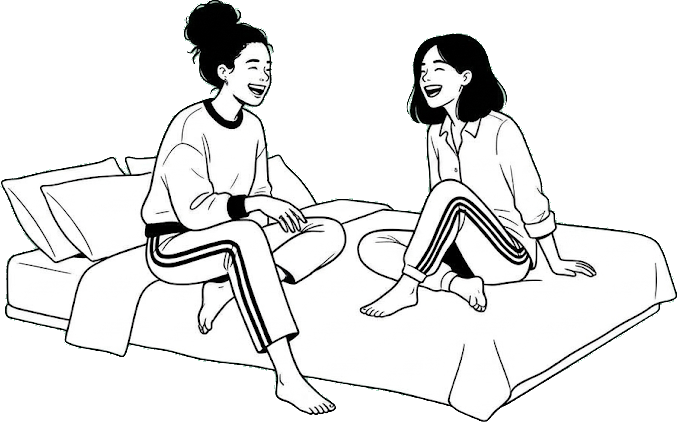
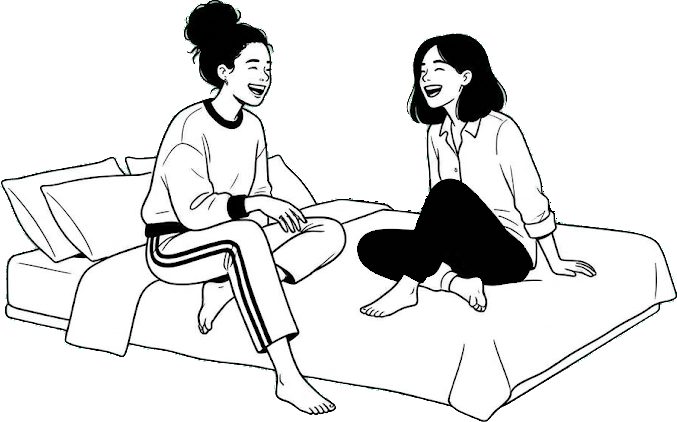
Textos nuevos de ansiedad, depresión, insomnio y alimentación; menú con botón verde
- Frases de la gente, enfoque multidimensional (TCC, ACT y contextuales) en la entrada
- Etiquetas «¿Te pasa algo de esto?» bajo los botones; fuera «Hay varias psicologías» y anterior/siguiente
- Menú: botón verde clarito al pasar el ratón y en la sección actual
- Problemas sexuales: pantalón negro entero

Changed region(s): [[0.5273, 0.4313, 0.8065, 0.6777]]

diff --git a/maqueta/motivos-data.js b/maqueta/motivos-data.js
@@ -10,28 +10,45 @@ function v(t){return '<span class="verify">[VERIFICAR '+t+']</span>';}
 
 window.MOTIVOS=[
 {
-  slug:'ansiedad', name:'Ansiedad y estrés', sym:'Le doy vueltas a todo',
-  k:'ansiedad estres nervios angustia le doy vueltas a todo pienso demasiado ataque de ansiedad me falta el aire taquicardia panico agobio miedo fobia obsesiones psicosomatico trabajo laboral autocontrol burnout',
-  feel:['Le doy vueltas a todo','Pienso demasiado las cosas','Me falta el aire y se me acelera el corazón','Me da miedo que me vuelva a dar un ataque de ansiedad'],
+  slug:'ansiedad', name:'Ansiedad y estrés', sym:'Tengo ansiedad y no sé por qué',
+  k:'ansiedad estres nervios angustia no puedo parar de pensar estoy todo el dia pensando me obsesiono con las ideas tengo ansiedad y no se por que le doy vueltas a todo pienso demasiado ataque de ansiedad me falta el aire taquicardia panico agobio miedo fobia obsesiones psicosomatico trabajo laboral autocontrol burnout',
+  feel:['Tengo ansiedad y no sé por qué','No puedo parar de pensar','Estoy todo el día pensando','Me obsesiono con las ideas'],
+  feelNote:'Frases con las que mucha gente cuenta lo que le pasa.',
+  bases:[
+    ['bio','Lo que dice la biología','La ansiedad es un sistema de alarma que compartimos con otros animales. Ante una amenaza, el cuerpo se prepara para huir o defenderse: se acelera el corazón, cambia la respiración, se tensan los músculos. Es útil ante un peligro real; agota cuando se queda encendida sin pausa. '+V],
+    ['neuro','Lo que dice la neurología','Hay circuitos del cerebro que detectan amenazas muy deprisa, antes de que lo pensemos, y otros, más lentos, que pueden calmarlos. Por eso a veces la ansiedad llega «sin saber por qué»: el aviso va por delante de la explicación. '+V],
+    ['psico','Lo que dice la psicología','Darle vueltas a algo suele ser un intento de controlar lo que no sabemos: si lo pienso todo, nada me pillará por sorpresa. Alivia un momento y alimenta el círculo. Con evitar lo que asusta pasa igual: a corto plazo tranquiliza; a la larga, agranda el miedo. '+V],
+    ['socio','Lo que dice la sociología','La ansiedad no nace solo dentro de cada uno. La precariedad, la prisa, la presión por rendir o por estar siempre conectado pesan, y es uno de los motivos de consulta más frecuentes en atención primaria. '+V]
+  ],
+  together:'Cada una de estas miradas explica una parte, y ninguna lo explica todo. Lo que nos interesa es cómo se entretejen en tu caso: qué te pasa en el cuerpo, qué te dices, qué está ocurriendo en tu vida. La ansiedad casi siempre tiene dirección —el trabajo, la familia, la pareja, el dinero— y también sus razones, aunque al principio no se vean. A partir de ahí buscamos el enfoque que mejor encaja contigo, y lo pensamos juntos.',
   cta:'Podemos ayudarte a dejar de darle vueltas a todo y a que la ansiedad no decida por ti.',
   intro:'La ansiedad es una respuesta de alarma ante algo que anticipamos como amenaza. Es útil cuando se ajusta a lo que pasa; se convierte en un problema cuando aparece sin motivo claro, dura demasiado o empieza a decidir por ti.',
+  how:'Lo abordamos desde un enfoque multidimensional, sobre todo con terapia cognitivo-conductual, terapia de aceptación y compromiso (ACT) y otras terapias contextuales: entender qué mantiene la ansiedad, dejar de evitar lo que asusta y volver a hacer lo que te importa.',
   science:'Se suele distinguir el miedo, ante un peligro presente, de la ansiedad, ante uno anticipado. Cuando se mantiene y limita la vida diaria, los manuales clínicos describen varios cuadros: ansiedad generalizada, pánico, ansiedad social o fobias, entre otros. Es uno de los motivos de consulta más frecuentes. '+V,
   refs:'GuíaSalud (SNS): guía de práctica clínica sobre el manejo de los trastornos de ansiedad en atención primaria. '+v('edición vigente y enlace'),
   beyond:'Decir «tengo ansiedad» la convierte en una pieza averiada que llevamos dentro. Suele ser más útil verla como algo que hacemos —anticipar— y preguntarse hacia dónde: casi siempre tiene dirección postal (el trabajo, la familia, la pareja, el dinero). A veces la anticipación se vuelve sobre sí misma: vigilar cada latido, pensar en cómo estoy pensando. Y las ideas que parecen «irracionales» también tienen sus razones.',
   approaches:[
-    ['Cognitivo-conductual','Exposición gradual a lo que se evita y revisión de las anticipaciones que mantienen el miedo.','amplia en varios cuadros de ansiedad'],
-    ['Contextuales y ACT','Dejar de pelear con la ansiedad para volver a hacer lo que importa, aunque esté presente.','creciente'],
-    ['Psicodinámica breve','Entender los conflictos y patrones de relación que alimentan la angustia.','parcial']
+    ['Terapia cognitivo-conductual','Exposición gradual a lo que se evita y revisión de las anticipaciones que mantienen el miedo.','amplia en varios cuadros de ansiedad'],
+    ['Terapias contextualistas y ACT','Dejar de pelear con la ansiedad para volver a hacer lo que importa, aunque esté presente.','creciente'],
   ],
   subs:['Ataque de ansiedad y pánico','Ansiedad social','Obsesiones','Miedos y fobias','Estrés laboral y burnout','Psicosomático'],
   alt:'Mujer caminando tranquila por un paseo arbolado con luz de tarde'
 },
 {
-  slug:'depresion', name:'Depresión y estado de ánimo', sym:'No tengo ganas de nada',
-  k:'depresion estado de animo tristeza no tengo ganas de nada sin ganas solo quiero dormir me siento vacio vacia solo sola triste apatia desanimo cansancio',
-  feel:['No tengo ganas de nada','No tengo ganas de hacer nada, solo quiero dormir','Me siento vacío por dentro','Me siento solo y triste'],
+  slug:'depresion', name:'Depresión y estado de ánimo', sym:'No tengo ganas de levantarme de la cama',
+  k:'depresion estado de animo tristeza no tengo ganas de levantarme de la cama no veo futuro no tengo ganas de vivir no tengo ganas de nada sin ganas solo quiero dormir me siento vacio vacia solo sola triste apatia desanimo cansancio',
+  feel:['No tengo ganas de levantarme de la cama','No veo futuro posible','No tengo ganas de vivir'],
+  feelNote:'Frases con las que mucha gente cuenta lo que le pasa.',
+  bases:[
+    ['bio','Lo que dice la biología','El ánimo bajo no está solo en la cabeza: se nota en el sueño, en el apetito, en el cansancio, en el cuerpo entero. El estrés mantenido, la falta de luz y de movimiento o algunas enfermedades influyen; por eso a veces conviene también una revisión médica. '+V],
+    ['neuro','Lo que dice la neurología','La idea de que la depresión es «falta de serotonina» es una simplificación que la investigación no sostiene tal cual. Sí se sabe que se apagan los sistemas que nos hacen anticipar lo bueno y movernos hacia ello: por eso cuesta tanto levantarse, aunque se quiera. '+V],
+    ['psico','Lo que dice la psicología','Cuando el ánimo baja, hacemos menos; al hacer menos, hay menos cosas que nos den algo, y el ánimo baja más. Esperar a tener ganas para moverse suele alargar el círculo. Las terapias que mejor funcionan empiezan por romperlo con pasos pequeños. '+V],
+    ['socio','Lo que dice la sociología','Las pérdidas, la soledad no deseada, el paro o la precariedad aumentan el riesgo de depresión. No es debilidad de nadie: el malestar también habla de cómo vivimos. '+V]
+  ],
+  together:'Ninguna de estas miradas basta sola. Pensamos la depresión entretejida con tu vida concreta: lo que has perdido, lo que te pesa, lo que se ha ido estrechando. Cuando no se ve futuro, ayuda pensarlo con alguien; no para tener la respuesta hecha, sino para buscar juntos por dónde empezar y qué enfoque te sirve mejor.',
   cta:'Podemos ayudarte a dar los primeros pasos, también cuando no tienes ganas de nada.',
   intro:'Hablamos de depresión cuando la tristeza, el desánimo o la falta de interés se mantienen durante semanas y empiezan a afectar al trabajo, a las relaciones o al cuidado de uno mismo.',
+  how:'Lo abordamos desde un enfoque multidimensional, sobre todo con terapia cognitivo-conductual, terapia de aceptación y compromiso (ACT) y otras terapias contextuales: recuperar poco a poco actividades con sentido, revisar los pensamientos que hunden y moverte hacia lo que importa sin esperar a tener ganas.',
   science:'Los manuales clínicos la describen por un conjunto de síntomas mantenidos en el tiempo: ánimo bajo, pérdida de interés, cambios en el sueño o el apetito, cansancio, culpa. Las guías recomiendan la psicoterapia, sola o junto con medicación según la intensidad. '+V,
   refs:'GuíaSalud (SNS): guía de práctica clínica sobre el manejo de la depresión en el adulto. '+v('edición vigente y enlace'),
   beyond:'El ánimo no es una sustancia que se agota dentro de la cabeza: va ligado a la vida concreta —pérdidas, trabajo, soledad, rutinas que se han ido estrechando—. La explicación de «me falta serotonina» es una simplificación que la investigación no sostiene tal cual '+V+'. Mirar la vida concreta no quita importancia al malestar: le da por dónde empezar.',
@@ -44,11 +61,20 @@ window.MOTIVOS=[
   alt:'Grupo de amigas compartiendo una mesa al aire libre'
 },
 {
-  slug:'insomnio', name:'Insomnio y sueño', sym:'No puedo dormir',
-  k:'insomnio sueno no puedo dormir duermo mal me despierto por la noche madrugada me cuesta dormir mi cabeza no deja de pensar higiene del sueno cansancio',
-  feel:['No puedo dormir por las noches','Me despierto muchas veces por la noche','Me despierto a las 5 y ya no puedo dormir','No puedo dormir: mi cabeza no deja de pensar'],
+  slug:'insomnio', name:'Insomnio y sueño', sym:'Me agobia no poder dormirme',
+  k:'insomnio sueno me agobia no poder dormirme me paso la noche dando vueltas me paso el dia agotado agotada no puedo dormir duermo mal me despierto por la noche madrugada me cuesta dormir mi cabeza no deja de pensar higiene del sueno cansancio',
+  feel:['Me agobia no poder dormirme','Me paso la noche dando vueltas','Me paso el día agotado'],
+  feelNote:'Frases con las que mucha gente cuenta lo que le pasa.',
+  bases:[
+    ['bio','Lo que dice la biología','El sueño depende de dos relojes: el ritmo circadiano, que marca la luz del día, y la presión de sueño, que se acumula mientras estamos despiertos. Las pantallas por la noche, la cafeína o los horarios cambiantes los desajustan. '+V],
+    ['neuro','Lo que dice la neurología','Para dormirse, el cerebro tiene que bajar la guardia. En el insomnio suele quedarse en estado de alerta: el cuerpo cansado y la mente despierta. Por eso no basta con estar agotado. '+V],
+    ['psico','Lo que dice la psicología','El sueño no se puede forzar: cuanto más se intenta, más se aleja. La cama acaba asociada a dar vueltas, y la preocupación por no dormir se convierte en el problema. La terapia cognitivo-conductual para el insomnio es el tratamiento de primera elección en las guías clínicas. '+V],
+    ['socio','Lo que dice la sociología','Los turnos, las jornadas largas y nuestros horarios, con cenas y pantallas hasta tarde, recortan el sueño de mucha gente. Dormir mal también tiene que ver con cómo está organizado el día. '+V]
+  ],
+  together:'El insomnio suele mantenerse por la propia anticipación («¿y si esta noche tampoco?») y por cómo vamos reorganizando el día entero alrededor de la noche. Lo pensamos junto con lo que pasa de día —el trabajo, las preocupaciones, los hábitos— y entretejemos lo que dicen el cuerpo y la psicología para encontrar lo que te funcione a ti.',
   cta:'Trabajamos contigo para que la noche deje de ser una pelea.',
   intro:'El insomnio es la dificultad para conciliar el sueño, mantenerlo o que sea reparador, cuando se repite y se nota al día siguiente.',
+  how:'Lo abordamos desde un enfoque multidimensional, sobre todo con terapia cognitivo-conductual para el insomnio, terapia de aceptación y compromiso (ACT) y otras terapias contextuales: ajustar horarios y hábitos, y dejar de pelear por dormir.',
   science:'La terapia cognitivo-conductual para el insomnio es el tratamiento psicológico de primera elección en las guías clínicas. Incluye la higiene del sueño, pero no se reduce a ella. '+V,
   refs:'GuíaSalud (SNS): guía de práctica clínica para el manejo de pacientes con insomnio en atención primaria. '+v('edición vigente y enlace'),
   beyond:'Dormir no se puede forzar: cuanto más se intenta, más se aleja. El insomnio suele mantenerse por la propia anticipación («¿y si esta noche tampoco?») y por cómo vamos reorganizando el día entero alrededor de la noche.',
@@ -61,11 +87,20 @@ window.MOTIVOS=[
   alt:'Mujer descansando al sol de la mañana con una taza de café'
 },
 {
-  slug:'alimentacion', name:'Problemas de alimentación', sym:'No puedo parar de comer', delicate:true,
-  k:'alimentacion comida comer no puedo parar de comer como por ansiedad atracones dieta peso cuerpo vomitar restriccion imagen',
-  feel:['No puedo parar de comer','Como por ansiedad','Pienso en la comida y en mi cuerpo casi todo el día','Me salto comidas y luego me doy un atracón'],
+  slug:'alimentacion', name:'Problemas de alimentación', sym:'Como y después me culpo', delicate:true,
+  k:'alimentacion comida comer como y despues me culpo me siento horrible conmigo como mucho y despues me castigo solo comiendo alivio la ansiedad no puedo parar de comer como por ansiedad atracones dieta peso cuerpo vomitar restriccion imagen culpa',
+  feel:['Como y después me culpo','Me siento horrible conmigo','Como mucho y después me castigo','Solo comiendo alivio la ansiedad'],
+  feelNote:'Frases con las que mucha gente cuenta lo que le pasa.',
+  bases:[
+    ['bio','Lo que dice la biología','Saltarse comidas o hacer dietas muy estrictas aumenta el hambre y hace que la comida ocupe más espacio en la cabeza. Muchas veces el atracón no es falta de voluntad, sino la respuesta de un cuerpo que se ha sentido privado. '+V],
+    ['neuro','Lo que dice la neurología','Comer activa los sistemas de recompensa del cerebro y calma durante un rato. Por eso la comida puede convertirse en una forma rápida de aliviar la ansiedad o la tristeza: funciona en el momento y deja peor después. '+V],
+    ['psico','Lo que dice la psicología','Es frecuente un círculo: comer para calmarse, sentir culpa, castigarse o restringir, y volver a comer. La culpa no frena el círculo: lo alimenta. Entender qué función cumple la comida en tu vida ayuda a salir de él. '+V],
+    ['socio','Lo que dice la sociología','Vivimos rodeados de mensajes sobre cuerpos ideales, dietas y control. Las redes sociales y los juicios sobre el peso pesan, sobre todo en adolescentes y mujeres jóvenes. '+V]
+  ],
+  together:'La comida rara vez es solo comida: se entreteje con el control, la imagen, las emociones, la familia o las redes. Preferimos no reducirlo a una sigla. Lo pensamos juntos, con calma y sin juicios, y combinamos lo que haga falta —psicología, medicina, nutrición— para que la comida vuelva a ocupar su sitio.',
   cta:'Trabajamos contigo, con calma y sin juicios, para que la comida vuelva a ocupar su sitio.',
   intro:'Hablamos de problemas de alimentación cuando la comida, el peso o la figura ocupan tanto espacio que condicionan el día a día: restricciones, atracones, compensaciones o una preocupación constante.',
+  how:'Lo abordamos desde un enfoque multidimensional, sobre todo con terapia cognitivo-conductual, terapia de aceptación y compromiso (ACT) y otras terapias contextuales: regularizar la alimentación, entender qué función cumple la comida en tu vida y relacionarte de otra manera con tu cuerpo.',
   science:'Los manuales clínicos describen varios cuadros (anorexia, bulimia, trastorno por atracón, entre otros). Pueden tener consecuencias médicas, por eso el tratamiento suele requerir coordinación con medicina y nutrición. '+V,
   refs:'GuíaSalud (SNS): guía de práctica clínica sobre trastornos de la conducta alimentaria. '+v('edición vigente y enlace'),
   beyond:'La comida rara vez es solo comida: se entreteje con el control, la imagen, la familia o las redes. Preferimos no reducirlo a una sigla y entender qué función cumple ese comportamiento en tu vida.',

diff --git a/motivo.html b/motivo.html
@@ -71,18 +71,25 @@ h2{font-size:clamp(28px,3vw,42px);line-height:1.05;margin:0 0 12px}
 .read p{font-size:18px;line-height:1.6;color:var(--ink2);margin:0 0 16px}
 .read .refs{font-size:15px;border-left:3px solid var(--line);padding-left:16px}
 .read .beyond{border-left:3px solid var(--brand);padding-left:20px}
+/* enfoque multidimensional: un solo bloque con un aspecto por fila y un dibujito al lado para aligerar el texto */
+.bases{margin:22px 0 18px;padding:6px clamp(20px,3vw,32px);background:var(--soft);border:1px solid var(--line);border-radius:28px}
+.bases article{display:grid;grid-template-columns:56px minmax(0,1fr);gap:18px;align-items:start;padding:20px 0;border-bottom:1px solid var(--line)}
+.bases article:last-child{border-bottom:0}
+.bases .ico{width:56px;height:56px}
+.bases h3{font-size:20px;line-height:1.1;margin:4px 0 6px}
+.read .bases p{font-size:16px;line-height:1.55;margin:0}
 
-/* enfoques */
-.psy{display:grid;grid-template-columns:repeat(3,minmax(0,1fr));gap:18px;margin-top:22px}
-.psy article{background:var(--bg);border:1px solid var(--line);border-radius:22px;padding:22px}
-.psy h3{font-size:21px;line-height:1.1;margin-bottom:8px}
-.psy p{margin:0 0 10px;font-size:15px;line-height:1.42;color:var(--ink2)}
-.psy .ev{font-size:13px;margin:0}
-.care{border:1px solid var(--line);border-radius:22px;padding:22px 26px;margin-top:22px;font-size:16px;line-height:1.5;color:var(--ink2)}
+/* aviso de cuidado (motivos delicados y menores) y enfoque en la entrada */
+.mhero .how{margin-top:14px}
+.care{max-width:780px;border:1px solid var(--line);border-radius:22px;padding:22px 26px;margin-top:56px;font-size:16px;line-height:1.5;color:var(--ink2)}
 .care h3{font-size:21px;margin-bottom:8px;color:var(--ink)}
 .care p{margin:0 0 6px}
 .subs{display:flex;flex-wrap:wrap;gap:10px;margin:14px 0 0;padding:0;list-style:none}
 .subs li{font-size:15px;padding:9px 16px;border:1px solid var(--line);border-radius:999px;color:var(--ink2)}
+/* tipos dentro del motivo, arriba del todo para que quien entra se reconozca enseguida */
+.subs-top{margin-top:30px}
+.subs-top .subs{margin-top:0}
+.subs-top .subs li{background:var(--soft);color:var(--brandink);font-weight:500}
 
 /* «Podemos ayudarte», igual que en la página de terapia */
 .band{display:grid;grid-template-columns:minmax(0,1fr) minmax(0,1.1fr);margin-top:clamp(64px,8vw,104px);background:var(--soft);border:1px solid var(--line);border-radius:28px;overflow:hidden;transition:border-color .15s ease,transform .2s ease,box-shadow .2s ease}
@@ -95,10 +102,6 @@ h2{font-size:clamp(28px,3vw,42px);line-height:1.05;margin:0 0 12px}
 .band .btn{align-self:flex-start}
 .band .urg{font-size:14px}
 
-.pn{display:flex;justify-content:space-between;gap:16px;margin-top:40px;padding-top:22px;border-top:1px solid var(--line);font-size:14px}
-.pn a{text-decoration:none;color:var(--ink2)}
-.pn a:hover{color:var(--brandink)}
-.pn b{display:block;margin-top:4px;font:400 22px/1.1 'DM Serif Display',Georgia,serif;color:var(--ink)}
 footer{padding:28px clamp(20px,4.5vw,64px) 40px;font-size:14px}
 @media (max-width:860px){
   .links{display:none}
@@ -108,7 +111,6 @@ footer{padding:28px clamp(20px,4.5vw,64px) 40px;font-size:14px}
   .nav .btn.small{margin-left:auto;white-space:nowrap;padding:10px 14px;font-size:14px}
   .mhero,.feel,.band{grid-template-columns:1fr}
   .mhero .art{order:-1}
-  .psy{grid-template-columns:1fr}
 }
 </style>
 </head>
@@ -133,37 +135,51 @@ footer{padding:28px clamp(20px,4.5vw,64px) 40px;font-size:14px}
 /* detalle de una terapia (motivo de consulta): motivo.html?m=slug; los textos salen de maqueta/motivos-data.js */
 (function(){
 'use strict';
-var q=/[?&]m=([a-z]+)/.exec(location.search), m=motivoBySlug(q?q[1]:'ansiedad')||MOTIVOS[0], idx=MOTIVOS.indexOf(m);
-var prev=MOTIVOS[(idx+MOTIVOS.length-1)%MOTIVOS.length], next=MOTIVOS[(idx+1)%MOTIVOS.length];
+var q=/[?&]m=([a-z]+)/.exec(location.search), m=motivoBySlug(q?q[1]:'ansiedad')||MOTIVOS[0];
 var D=' <span class="draft">borrador</span>', CITA='contacto.html', ARR=' <span class="arr" aria-hidden="true">→</span>';
 var WA='<a class="btn ghost" href="#"><svg width="20" height="20" viewBox="0 0 24 24" fill="none" stroke="currentColor" stroke-width="2" stroke-linecap="round" stroke-linejoin="round" aria-hidden="true"><path d="M21 12a8 8 0 0 1-11.6 7.1L4 20l1-4.6A8 8 0 1 1 21 12z"/></svg>Consultar por WhatsApp</a>';
 document.title=m.name+' · Psicólogo en Madrid centro y online · Symploké';
+/* dibujitos de cada mirada: trazo de tinta y relleno blanco sobre la mancha verde, como las ilustraciones */
+function ico(body){return '<svg class="ico" viewBox="0 0 64 64" aria-hidden="true"><ellipse cx="33" cy="34" rx="29" ry="24" fill="#BFEBD7"/><g fill="#FFFFFF" stroke="#13231C" stroke-width="2.2" stroke-linecap="round" stroke-linejoin="round">'+body+'</g></svg>';}
+var ICO={
+  bio:ico('<path d="M32 52 C15 41 9 31 9 23 C9 15 15 10 22 10 C27 10 30 13 32 17 C34 13 37 10 42 10 C49 10 55 15 55 23 C55 31 49 41 32 52Z"/><path fill="none" d="M13 31 H22 L26 23 L31 39 L35 27 L38 31 H51"/>'),
+  neuro:ico('<path d="M19 45 C11 45 7 38 10 33 C6 29 8 21 14 20 C14 13 22 10 27 13 C30 8 38 8 41 12 C47 10 54 15 52 21 C58 24 58 33 53 36 C55 42 50 47 44 46 C42 51 35 53 31 49 C27 53 20 51 19 45Z"/><path fill="none" d="M27 13 C27 19 32 21 32 27 M41 12 C38 17 40 21 44 23 M14 20 C18 23 22 23 24 28 M53 36 C48 35 45 31 46 28 M31 49 C31 43 34 39 38 38 M19 45 C21 40 25 38 28 39"/>'),
+  psico:ico('<path d="M17 40 C9 40 7 31 13 28 C11 20 20 15 26 19 C29 12 40 12 42 19 C49 16 57 22 54 29 C60 33 56 42 49 41 C46 46 38 46 35 42 C30 46 21 46 17 40Z"/><circle cx="15" cy="49" r="3.5"/><circle cx="9" cy="56" r="2"/><circle cx="25" cy="30" r="1.2" fill="#13231C"/><circle cx="33" cy="30" r="1.2" fill="#13231C"/><circle cx="41" cy="30" r="1.2" fill="#13231C"/>'),
+  socio:ico('<circle cx="15" cy="28" r="5.5"/><path d="M4 52 C4 42 9 37 15 37 C21 37 26 42 26 52Z"/><circle cx="49" cy="28" r="5.5"/><path d="M38 52 C38 42 43 37 49 37 C55 37 60 42 60 52Z"/><circle cx="32" cy="23" r="7"/><path d="M18 54 C18 42 24 35 32 35 C40 35 46 42 46 54Z"/>')
+};
 var h='';
 
 h+='<section class="mhero"><div>';
 h+='<nav class="crumbs" aria-label="Migas de pan"><a href="test1.html">Inicio</a><span aria-hidden="true">›</span><a href="terapia.html">Terapias</a><span aria-hidden="true">›</span><span>'+m.name+'</span></nav>';
 h+='<h1>'+m.name+'</h1>';
 h+='<p class="lead">'+m.intro+D+'</p>';
+if(m.how)h+='<p class="lead how">'+m.how+'</p>';
 h+='<p class="help">'+m.cta+'</p>';
 h+='<div class="cta"><a class="btn primary" href="'+CITA+'">Pedir cita'+ARR+'</a>'+WA+'</div>';
+if(m.subs)h+='<div class="subs-top"><p class="layer">¿Te pasa algo de esto?</p><ul class="subs">'+m.subs.map(function(s){return '<li>'+s+'</li>';}).join('')+'</ul></div>';
 h+='</div><div class="art">'+ILUS[m.slug]('h'+m.slug)+'</div></section>';
 
 h+='<section class="feel" aria-labelledby="suene"><div>';
 h+='<p class="layer">Lo que se siente</p><h2 id="suene">Quizá te suene</h2>';
-h+='<p class="note">Frases tal como las escribe la gente en Google. <span class="verify">[VERIFICAR con Google Trends]</span></p>';
+h+='<p class="note">'+(m.feelNote||'Frases tal como las escribe la gente en Google. <span class="verify">[VERIFICAR con Google Trends]</span>')+'</p>';
 h+='</div><div><ul>'+m.feel.map(function(f){return '<li>«'+f+'»</li>';}).join('')+'</ul>';
 h+='<div class="reco"><p>¿Te reconoces? Es frecuente sentirse así.</p><a class="btn primary small" href="'+CITA+'">Pedir cita'+ARR+'</a></div>';
 if(m.alert)h+='<p class="alert">'+m.alert+'</p>';
 h+='</div></section>';
 
 h+='<div class="read">';
-h+='<section><p class="layer">Qué dice la ciencia</p><h2>Qué sabemos</h2><p>'+m.science+'</p><p class="refs">'+m.refs+'</p></section>';
-h+='<section><p class="layer">Más allá de la etiqueta</p><h2>No eres un diagnóstico</h2><p class="beyond">'+m.beyond+'</p></section>';
+if(m.bases){
+  h+='<section><p class="layer">Qué dice la ciencia</p><h2>Un enfoque multidimensional</h2>';
+  h+='<p>Ninguna ciencia lo explica todo por sí sola: cada una ilumina una dimensión del problema, y en cada persona se entretejen de una manera.</p>';
+  h+='<div class="bases">'+m.bases.map(function(b){return '<article>'+ICO[b[0]]+'<div><h3>'+b[1]+'</h3><p>'+b[2]+'</p></div></article>';}).join('')+'</div>';
+  h+='<p class="refs">'+m.refs+'</p></section>';
+  h+='<section><p class="layer">Más allá de la etiqueta</p><h2>Pensarlo juntos</h2><p class="beyond">'+m.together+'</p></section>';
+}else{
+  h+='<section><p class="layer">Qué dice la ciencia</p><h2>Qué sabemos</h2><p>'+m.science+'</p><p class="refs">'+m.refs+'</p></section>';
+  h+='<section><p class="layer">Más allá de la etiqueta</p><h2>No eres un diagnóstico</h2><p class="beyond">'+m.beyond+'</p></section>';
+}
 h+='</div>';
 
-h+='<section class="read" style="max-width:none"><p class="layer">Cómo trabajamos</p><h2>Hay varias psicologías</h2>';
-h+='<p class="lead">No hay una sola psicología, y no todas tienen la misma evidencia para cada problema.</p>';
-h+='<div class="psy">'+m.approaches.map(function(a){return '<article class="card"><h3>'+a[0]+'</h3><p>'+a[1]+'</p><p class="ev"><b>Evidencia:</b> '+a[2]+'. <span class="verify">[VERIFICAR]</span></p></article>';}).join('')+'</div>';
 if(m.delicate||m.coord||m.consent){
   h+='<div class="care"><h3>'+(m.consent?'Menores y familia':'Con cuidado')+'</h3>';
   if(m.delicate)h+='<p>Formación en este ámbito: <span class="gap">[ ]</span></p>';
@@ -171,8 +187,6 @@ if(m.delicate||m.coord||m.consent){
   if(m.consent)h+='<p>'+m.consent+'</p>';
   h+='<p>No prometemos resultados: cada proceso es distinto.</p></div>';
 }
-if(m.subs)h+='<ul class="subs">'+m.subs.map(function(s){return '<li>'+s+'</li>';}).join('')+'</ul>';
-h+='</section>';
 
 h+='<section class="band"><div class="pic">'+ILUS.portada('band')+'</div><div class="t">';
 h+='<h2>Podemos ayudarte</h2>';
@@ -181,7 +195,6 @@ h+='<a class="btn primary" href="'+CITA+'">Pide cita y lo vemos juntos'+ARR+'</a
 h+='<p class="urg">Si estás en una urgencia, llama al <strong>112</strong>. Si tienes pensamientos de suicidio, llama al <strong>024</strong>.</p>';
 h+='</div></section>';
 
-h+='<nav class="pn" aria-label="Otras terapias"><a href="motivo.html?m='+prev.slug+'">← Anterior<b>'+prev.name+'</b></a><a href="motivo.html?m='+next.slug+'" style="text-align:right">Siguiente →<b>'+next.name+'</b></a></nav>';
 document.getElementById('main').innerHTML=h;
 drawIn(document.querySelector('.mhero .art svg'));
 })();

diff --git a/test1.html b/test1.html
@@ -124,7 +124,7 @@ footer{padding:28px clamp(20px,4.5vw,64px) 40px;color:var(--ink2);font-size:14px
     <svg width="64" height="64" viewBox="0 0 200 200" fill="none" aria-hidden="true"><g transform="rotate(45 100 100)"><rect x="44" y="32" width="28" height="136" fill="#009966" rx="6"></rect><rect x="86" y="32" width="28" height="136" fill="#009966" rx="6"></rect><rect x="128" y="32" width="28" height="136" fill="#009966" rx="6"></rect><rect x="29.5" y="41.5" width="141" height="33" style="fill:var(--bg)" rx="8.5"></rect><rect x="32" y="44" width="136" height="28" fill="#5FE3A8" rx="6"></rect><rect x="29.5" y="83.5" width="141" height="33" style="fill:var(--bg)" rx="8.5"></rect><rect x="32" y="86" width="136" height="28" fill="#5FE3A8" rx="6"></rect><rect x="29.5" y="125.5" width="141" height="33" style="fill:var(--bg)" rx="8.5"></rect><rect x="32" y="128" width="136" height="28" fill="#5FE3A8" rx="6"></rect><rect x="41.5" y="44" width="33" height="28" style="fill:var(--bg)"></rect><rect x="43.4" y="40.7" width="29.2" height="34.6" fill="#009966"></rect><rect x="41.5" y="128" width="33" height="28" style="fill:var(--bg)"></rect><rect x="43.4" y="124.7" width="29.2" height="34.6" fill="#009966"></rect><rect x="83.5" y="86" width="33" height="28" style="fill:var(--bg)"></rect><rect x="85.4" y="82.7" width="29.2" height="34.6" fill="#009966"></rect><rect x="125.5" y="44" width="33" height="28" style="fill:var(--bg)"></rect><rect x="127.4" y="40.7" width="29.2" height="34.6" fill="#009966"></rect><rect x="125.5" y="128" width="33" height="28" style="fill:var(--bg)"></rect><rect x="127.4" y="124.7" width="29.2" height="34.6" fill="#009966"></rect></g></svg>
     Symploké
   </a>
-  <nav class="links" aria-label="Principal"><a href="#como">Cómo trabajamos</a><a href="terapia.html">Terapias</a><a href="#blog">Blog</a></nav>
+  <nav class="links" aria-label="Principal"><a href="#como">Cómo trabajamos</a><a href="terapia.html" data-spy="que">Terapias</a><a href="#blog">Blog</a></nav>
   <a class="btn primary small" href="contacto.html">Pedir primera cita</a>
 </header>
 

diff --git a/comun.js b/comun.js
@@ -15,6 +15,16 @@ function navSize(){
 window.addEventListener('scroll',navSize,{passive:true});
 navSize();
 
+/* ---------- menú: en la portada, el enlace de la sección que estás viendo queda marcado (.on);
+   data-spy marca con otra sección un enlace que lleva a otra página («Terapias» con «¿Qué hacemos?») ---------- */
+var spy=[].slice.call(document.querySelectorAll('.nav .links a[href^="#"],.nav .links a[data-spy]')).map(function(a){return {a:a,el:document.getElementById(a.getAttribute('data-spy')||a.getAttribute('href').slice(1))};}).filter(function(s){return s.el;});
+function navSpy(){
+  var line=NAV+80, cur=null;
+  spy.forEach(function(s){var r=s.el.getBoundingClientRect(); if(r.top<=line&&r.bottom>line)cur=s;});
+  spy.forEach(function(s){s.a.classList.toggle('on',s===cur);});
+}
+if(spy.length){window.addEventListener('scroll',navSpy,{passive:true});window.addEventListener('load',navSpy);navSpy();}
+
 /* ---------- scroll suave ---------- */
 var lenis=null;
 if(!REDUCED&&window.Lenis){

diff --git a/comun.css b/comun.css
@@ -33,6 +33,12 @@ html.lenis,html.lenis body{height:auto}
 .hvpick button{font:inherit;color:var(--ink);background:transparent;border:1px solid var(--line);border-radius:999px;padding:8px 12px;cursor:pointer}
 .hvpick button[aria-pressed="true"]{background:var(--brand);border-color:var(--brand);color:var(--btntext)}
 
+/* ---------- menú: al pasar el ratón y en la sección en la que estás, el enlace se vuelve un botón verde clarito
+   (como «Pedir primera cita», pero en el verde del blog); comun.js marca .on en la portada según la sección visible ---------- */
+.nav .links{gap:4px;align-items:center}
+.nav .links a{padding:10px 18px;border-radius:999px;transition:background-color .2s ease,color .2s ease}
+.nav .links a:hover,.nav .links a.on{background:#5FE3A8;color:#10241C;text-decoration:none}
+
 /* ---------- pie ---------- */
 footer{background:#007A50 !important;color:#FFFFFF !important;border-top:0 !important}
 footer a{color:inherit}
